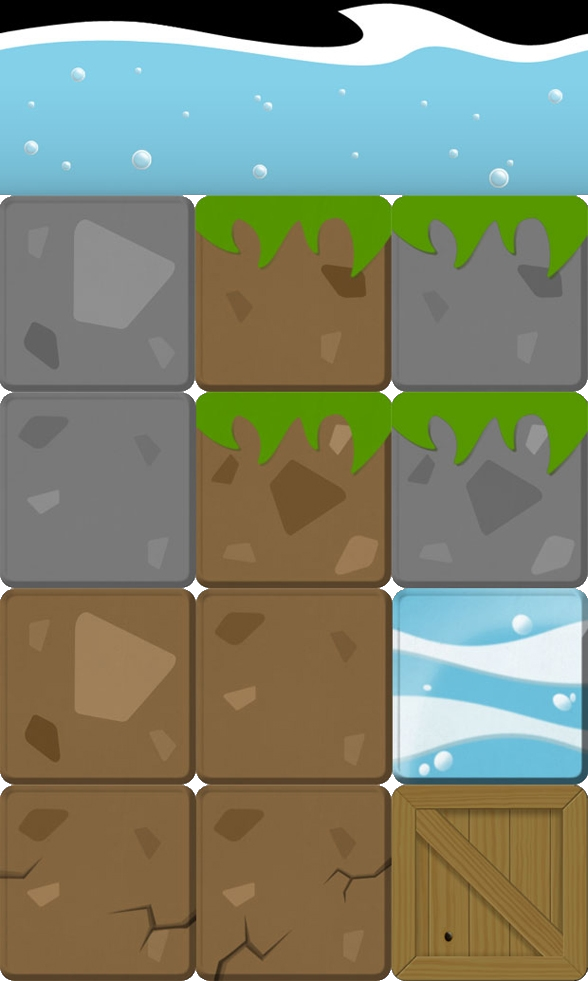
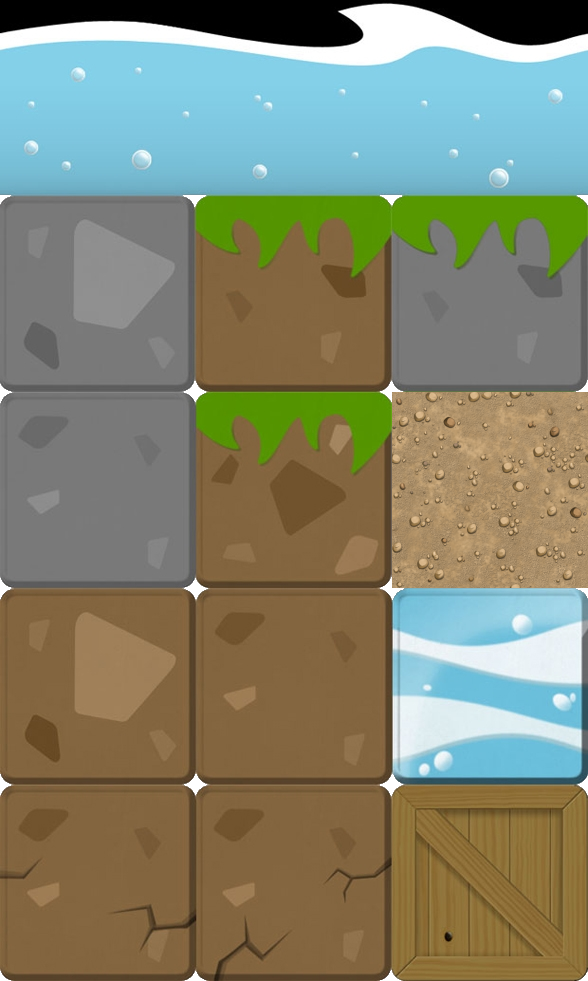
added background color

Changed region(s): [[0.6429, 0.3976, 1.0, 0.6116]]

diff --git a/Constants.h b/Constants.h
@@ -16,10 +16,13 @@
 #define TILE_BOX_L 4
 #define TILE_BOX_C 2
 
-#define TILE_FLOOR_L 3
-#define TILE_FLOOR_C 1
+#define TILE_FLOOR_L 2
+#define TILE_FLOOR_C 2
 
 // MAP NAMES
 #define WALL 'x'
 #define BOX	 'o'
 #define FLOOR '.'
+
+// COLORS
+#define BG_COLOR sf::Color(186, 155, 112)

diff --git a/main.cpp b/main.cpp
@@ -14,7 +14,7 @@ int main()
 				window.close();
 		}
 
-		window.clear();
+		window.clear(BG_COLOR);
 		world.Draw(window);
 		window.display();
 	}
